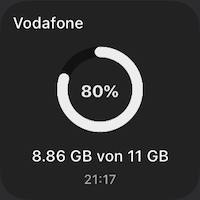
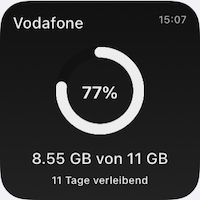
Show Remaining Days + MegaByte Support + MeinVodafone Login

diff --git a/VodafoneDE/VodafoneDE.js b/VodafoneDE/VodafoneDE.js
@@ -3,9 +3,13 @@
 // icon-color: red; icon-glyph: broadcast-tower;
 
 /**************
-Version 1.0.3
+Version 1.1.0
 
 Changelog:
+  v1.1.0:
+          - Login via MeinVodafone Login added
+          - Show Remaining Days
+          - MegaByte Support added for tariffs with <= 1 GB 
   v1.0.3:
           - CallYa Support
           - Write more useful information in the log, so that you can add support yourself if necessary
@@ -25,6 +29,11 @@ Credits:
 
 // How many minutes should the cache be valid
 let cacheMinutes = 60;
+
+// Login via MeinVodafone Login.
+const username = "";
+const password = "";
+const phonenumber = ""; // with leading 49 instead of 0. Example: 4917212345678
 
 // Please add additional values to these list, in case that your contract/tarif isn't supported by these default values.
 const containerList = ['Daten', 'D_EU_DATA']
@@ -104,7 +113,23 @@ function drawArc(ctr, rad, w, deg) {
   }
 }
 
-async function getSessionCookies() {
+function getTimeRemaining(endtime){
+  const total = Date.parse(endtime) - Date.parse(new Date());
+  const seconds = Math.floor( (total/1000) % 60 );
+  const minutes = Math.floor( (total/1000/60) % 60 );
+  const hours = Math.floor( (total/(1000*60*60)) % 24 );
+  const days = Math.floor( total/(1000*60*60*24) );
+
+  return {
+    total,
+    days,
+    hours,
+    minutes,
+    seconds
+  };
+}
+
+async function getSessionCookiesViaNetworkLogin() {
   let req;
   req = new Request("https://www.vodafone.de/mint/rest/session/start")
   req.method = "POST";
@@ -124,13 +149,47 @@ async function getSessionCookies() {
     let res = await req.loadJSON()
     return { cookies: req.response.cookies, msisdn: res.msisdn}
   } catch (e) {
-    console.log("Login vailed! Please check if Wifi is disabled.")
+    console.log("Login failed! Please check if Wifi is disabled.")
+    throw new Error(`Login failed with HTTP-Status-Code ${req.response.statusCode}`)
+  }
+};
+
+async function getSessionCookiesViaMeinVodafoneLogin() {
+  let req;
+  req = new Request("https://www.vodafone.de/mint/rest/session/start")
+  req.method = "POST";
+  req.headers = {
+    'Content-Type': 'application/json',
+    'Accept': 'application/json'
+  }
+
+  req.body = JSON.stringify({
+    "clientType": "Portal",
+    "username": username,
+    "password": password,
+  })
+  try {
+    let res = await req.loadJSON()
+    return { cookies: req.response.cookies}
+  } catch (e) {
+    console.log("Login failed!")
     throw new Error(`Login failed with HTTP-Status-Code ${req.response.statusCode}`)
   }
 };
 
 async function getUsage() {
-  let {cookies, msisdn} = await getSessionCookies();
+  let cookies, msisdn;
+  if (username !== "" && password !== "" && msisdn !== "") {
+    console.log("Login via MeinVodafone")
+    let { cookies: c }= await getSessionCookiesViaMeinVodafoneLogin();
+    cookies = c;
+    msisdn = phonenumber;
+  } else {
+    console.log("Login via Network")
+    let { cookies: c, msisdn: m } = await getSessionCookiesViaNetworkLogin();
+    cookies = c;
+    msisdn = m;
+  }
   let CookieValues = cookies.map(function(v){
     return v.name + "=" + v.value
   })
@@ -180,10 +239,17 @@ async function getUsage() {
       throw new Error(ErrorMsg)
     }
     
+    
+    let endDate = datenvolumen.endDate;
+    if (endDate == null) {
+      endDate = res['serviceUsageVBO']['billDetails']['billCycleEndDate'] || null
+    }
+    
     return {
       total: datenvolumen.total,
       used: datenvolumen.used,
-      remaining: datenvolumen.remaining
+      remaining: datenvolumen.remaining,
+      endDate
     }
   } catch (e) {
     console.log("Loading usage data failed")
@@ -240,6 +306,7 @@ let widget = new ListWidget();
 widget.setPadding(10, 10, 10, 10)
 
 if (data !== undefined) {
+  console.log(data)
   if (useGradient) {
     const gradient = new LinearGradient()
     gradient.locations = [0, 1]
@@ -252,9 +319,19 @@ if (data !== undefined) {
     widget.backgroundColor = new Color(backColor)
   }
   
-  let provider = widget.addText("Vodafone")
+  let firstLineStack = widget.addStack()
+  
+  let provider = firstLineStack.addText("Vodafone")
   provider.font = Font.mediumSystemFont(12)
   provider.textColor = new Color(textColor)
+  
+  // Last Update
+  firstLineStack.addSpacer()
+  let lastUpdateText = firstLineStack.addDate(lastUpdate)
+  lastUpdateText.font = Font.mediumSystemFont(8)
+  lastUpdateText.rightAlignText()
+  lastUpdateText.applyTimeStyle()
+  lastUpdateText.textColor = Color.lightGray() 
   
   widget.addSpacer()
   
@@ -285,20 +362,29 @@ if (data !== undefined) {
   widget.addSpacer()
   
   // Total Values
-  let remainingGB = (data.remaining / 1024).toFixed(2)
-  let totalGB = (data.total / 1024).toFixed(0)
-  let totalValuesText = widget.addText(`${remainingGB} GB von ${totalGB} GB`)
+  let totalValues;
+  if (parseInt(data.total) < 1000) {
+    totalValues = `${data.remaining} MB von ${data.total} MB`
+  } else {
+    let remainingGB = (data.remaining / 1024).toFixed(2)
+    let totalGB = (data.total / 1024).toFixed(0)
+    totalValues = `${remainingGB} GB von ${totalGB} GB`
+  }
+  let totalValuesText = widget.addText(totalValues)
   totalValuesText.font = Font.mediumSystemFont(12)
   totalValuesText.centerAlignText()
-  totalValuesText.textColor = new Color(textColor)
+  totalValuesText.textColor = new Color(textColor)  
   
-  // Last Update
-  widget.addSpacer(5)
-  let lastUpdateText = widget.addDate(lastUpdate)
-  lastUpdateText.font = Font.mediumSystemFont(10)
-  lastUpdateText.centerAlignText()
-  lastUpdateText.applyTimeStyle()
-  lastUpdateText.textColor = Color.lightGray() 
+  // Remaining Days    
+  if (data.endDate) {
+    widget.addSpacer(5)
+    let remainingDays = getTimeRemaining(data.endDate).days + 1
+    let remainingDaysText = widget.addText(`${remainingDays} Tage verleibend`)
+    remainingDaysText.font = Font.mediumSystemFont(8)
+    remainingDaysText.centerAlignText()
+    remainingDaysText.textColor = new Color(textColor) 
+  }
+ 
 } else {
   let fallbackText = widget.addText("Es ist ein Fehler aufgetreten! Bitte prüfen Sie die Logs direkt in der App.")
   fallbackText.font = Font.mediumSystemFont(12)

diff --git a/README.md b/README.md
@@ -26,22 +26,22 @@ If you have widget ideas, please feel free and share those ideas with me via Git
 This widget loads the remaining data volume via the MyVodafone API. For this purpose, an automatic login via the cell phone network is performed, therefore it is necessary that the WIFI is not active for the first usage.
 After the first usage, the informations are cached and will be used in case of an active WIFI Connection. The cached information will be also used to prevent the API from a lot of request. The TTL (Time To Live) of the Cache can be setup at the beginning of the script (default is 60 min)
 
-It is possible to overwrite the used colors of the widget. To overwrite the colors, you have to add four color codes separated by | to the widget parameter option: `BackgroundColor|TextColor|CircleFillColor|CircleStrokeColor`
+[[Download]](https://raw.githubusercontent.com/ThisIsBenny/iOS-Widgets/main/VodafoneDE/VodafoneDE.js)
+
+### Options
+#### Set own color scheme
+To overwrite the colors, you have to add four color codes separated by | to the widget parameter option: `BackgroundColor|TextColor|CircleFillColor|CircleStrokeColor`
 
 Example: `D32D1F|EDEDED|EDEDED|B0B0B0`
 
 If no parameter are set or not four colors are set the default color set for light or dark Mode will be used.
 
-[[Download]](https://raw.githubusercontent.com/ThisIsBenny/iOS-Widgets/main/VodafoneDE/VodafoneDE.js)
+#### Use MeinVodafone Login
+It is possible to add the MeinVodafone Credentails to the beginning of script, which allows the widget to update itself even with active WIFI or show data usage of another mobile contract.
 
-_Roadmap_:
-* Add GigaDepot volume
-* MegaByte Support
-* Show remaining Days
-
-_Contributors_:
+### Contributors
 * [Necriso](https://github.com/Necriso)
 
-_Credits_:
+### Credits
 * Sillium for the inspiration https://gist.github.com/Sillium/f904fb89444bc8dde12cfc07b8fa8728
 * Chaeimg for the Circle diagram (https://github.com/chaeimg/battCircle)
